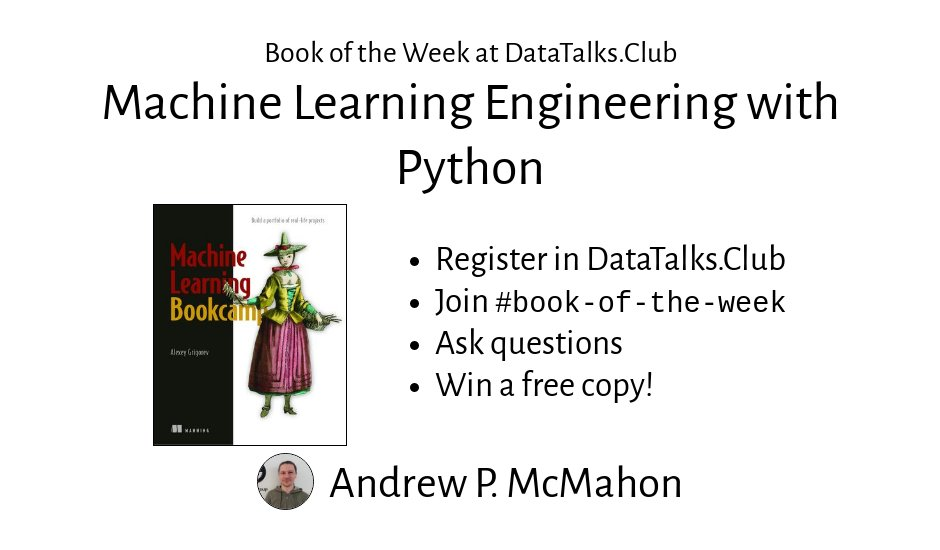
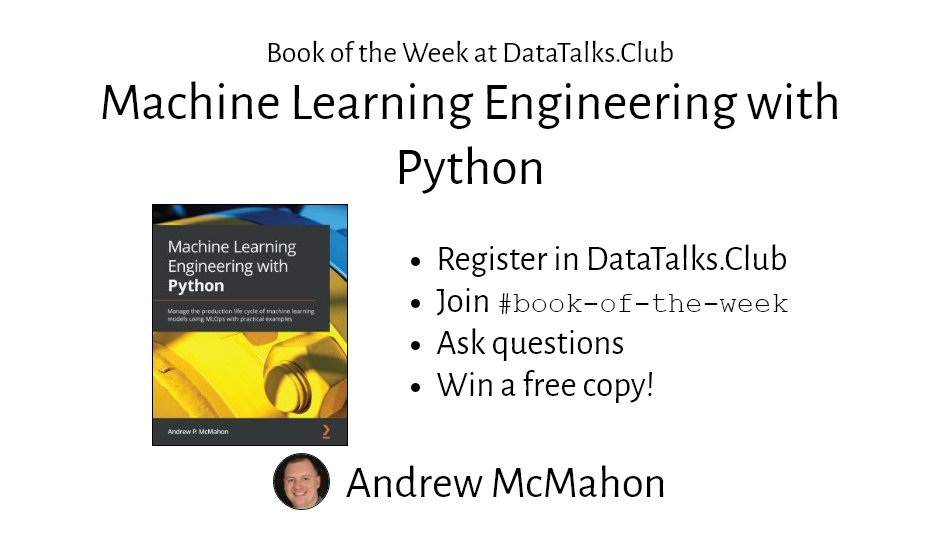
error fixed

diff --git a/previews/render_book.js b/previews/render_book.js
@@ -11,15 +11,27 @@ const output = args[3];
 
 
 const render = async (config, output) => {
-  const browser = await puppeteer.launch({
-    defaultViewport: {
-      width: 940,
-      height: 550,
-      isLandscape: true
-    },
-    executablePath: 'chromium-browser',
-    args: ['--no-sandbox'],
-  });
+  let browser = null;
+  if (process.platform === 'win32') {
+    browser = await puppeteer.launch({
+      defaultViewport: {
+        width: 940,
+        height: 550,
+        isLandscape: true
+      },
+      args: ['--no-sandbox'],
+    });
+  } else {
+    browser = await puppeteer.launch({
+      defaultViewport: {
+        width: 940,
+        height: 550,
+        isLandscape: true
+      },
+      executablePath: 'chromium-browser',
+      args: ['--no-sandbox'],
+    });
+  }
 
   const page = await browser.newPage();
 

diff --git a/_books/20220117-machine-learning-engineering-with-python.md b/_books/20220117-machine-learning-engineering-with-python.md
@@ -5,7 +5,7 @@ cover: "images/books/20220117-machine-learning-engineering-with-python/cover.jpg
 image: "images/books/20220117-machine-learning-engineering-with-python/preview.jpg"
 start: 2022-01-10 00:00:00
 end: 2022-01-21 22:59:58
-authors: [andrewp-mcmahon]
+authors: [andrewmcmahon]
 links: 
   - text: Book's page
     link: https://www.packtpub.com/product/machine-learning-engineering-with-python/9781801079259

diff --git a/_people/andrewmcmahon.md b/_people/andrewmcmahon.md
@@ -1,7 +1,7 @@
 ---
-short: andrewp-mcmahon
-title: "Andrew P. McMahon"
-picture: "images/authors/andrewp-mcmahon.jpg"
+short: andrewmcmahon
+title: "Andrew McMahon"
+picture: "images/authors/andrewmcmahon.jpg"
 github: AndyMc629
 twitter: electricweegie
 linkedin: andymcmahon629
